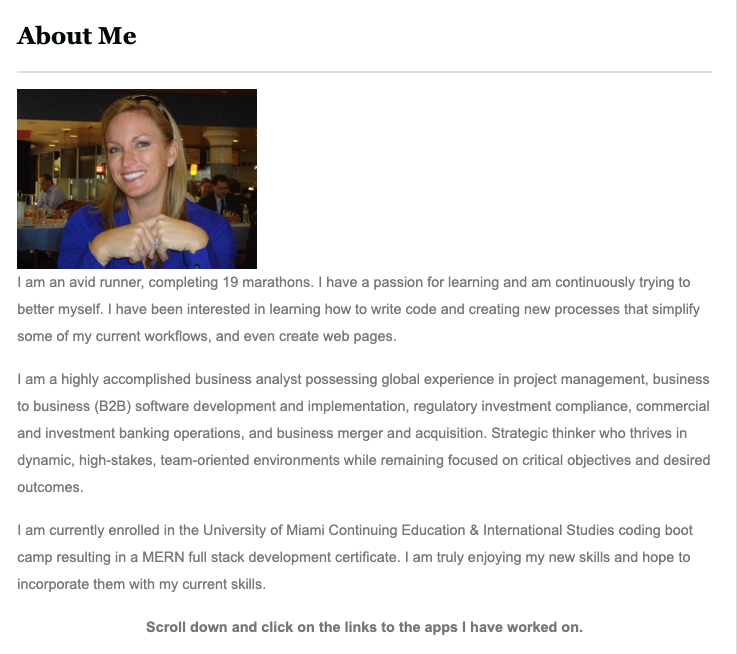
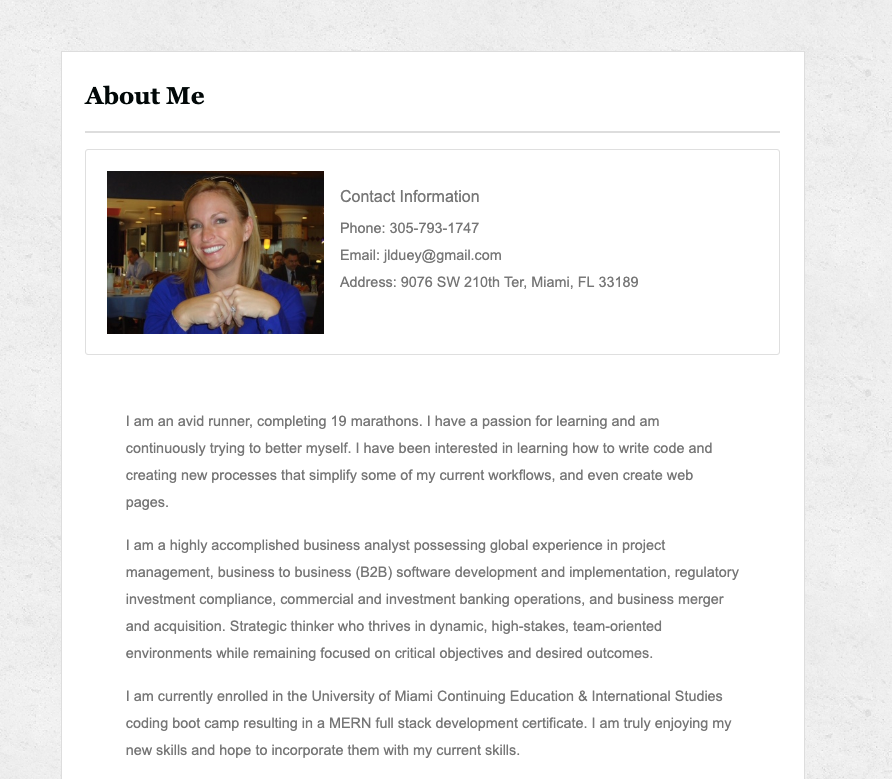
updated images and reformatted

Changed region(s): [[0.0, 0.0306, 0.9674, 0.8563], [0.0312, 0.8869, 0.8114, 0.9786]]

diff --git a/index.html b/index.html
@@ -15,11 +15,29 @@
     <section class="main-section">
       <h1>About Me</h1>
 
+      <div class="card mb-3" style="max-width: 100%;">
+          <div class="row no-gutters">
+            <div class="col-md-4">
+              <img class="img-fluid" width="300" height="150" src="assets/images/Headshot.JPG" alt="Jen Duey">
+            </div>
+            <div class="col-md-8">
+              <div class="card-body">
+                <h5 class="card-title">Contact Information</h5>
+                <ul class="list-unstyled">
+                    <li>Phone: 305-793-1747</li>
+                    <li>Email: jlduey@gmail.com</li>
+                    <li>Address: 9076 SW 210th Ter, Miami, FL 33189</li>
+                    
+                  </ul>
+              </div>
+            </div>
+          </div>
+        </div>
+
       <div class="row">
         <div class="col-md-12">
           <div class="row">
-            <div class="col-md-12" id="headshot">
-              <img class="img-fluid" width="300" height="150" src="assets/images/Headshot.JPG" alt="Jen Duey">
+            <div class="col-md-12" id="about">
               <p>I am an avid runner, completing 19 marathons. I have a passion for learning and am continuously trying
                 to better myself. I have been interested in learning how to write code and creating new processes that
                 simplify some of my current workflows, and even create web pages.</p>

diff --git a/assets/css/style.css b/assets/css/style.css
@@ -216,3 +216,7 @@ input[type=submit] {
   background: #4aaaa5;
   border: 0 none;
 }
+
+.row {
+  padding:3%;
+}
